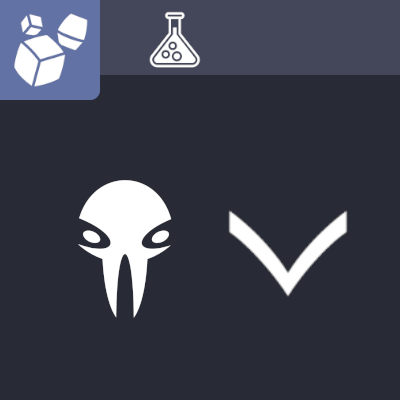
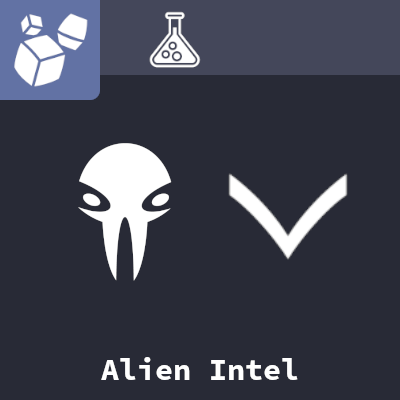
Improve tech tiles by adding tech name

diff --git a/src/tech_reference.rs b/src/tech_reference.rs
@@ -80,7 +80,7 @@ impl Tech {
                 phase: PhaseUsage::Timed,
                 description: html! {
                     <>
-                    {"Immediately after rolling a UFO die, you may reroll it and take the new result instead. This may be used in conjuction with a "}{inline_icon_text_phrase("satellite", "Satellite")}{" an additional reroll."}
+                    {"Immediately after rolling a UFO die, you may reroll it and take the new result instead. This may be used in conjuction with a "}{inline_icon_text_phrase("satellite", "Satellite")}{" for an additional reroll."}
                     </>
                 },
             },
@@ -135,7 +135,7 @@ impl Tech {
                 phase: PhaseUsage::Resolution,
                 description: html! {
                     <>
-                    {"When you would lose any amount of "}{inline_icon_text_phrase("interceptor", "Interceptors")}{" during the "}{inline_icon_text_phrase("success", "UFO Defense")}{" task, lose one fewer "}{inline_icon_text_phrase("interceptor", "Interceptor.")}{" This can be used to reduce the number of lost "}{inline_icon_text_phrase("interceptor", "Interceptors")}{" from one to zero, but may only be used once per round."}
+                    {"When you would lose any amount of "}{inline_icon_text_phrase("interceptor", "Interceptors")}{" during the "}{inline_icon_text_phrase("success", "UFO Defense")}{" task, lose one fewer "}{inline_icon_text_phrase("interceptor", "Interceptor.")}{" This can be used to reduce the number of lost "}{inline_icon_text_phrase("interceptor", "Interceptors")}{" from one to zero. Like all "}{inline_icon_text_phrase("tech", "Technologies,")}{" this may only be used once per round."}
                     </>
                 },
             },
